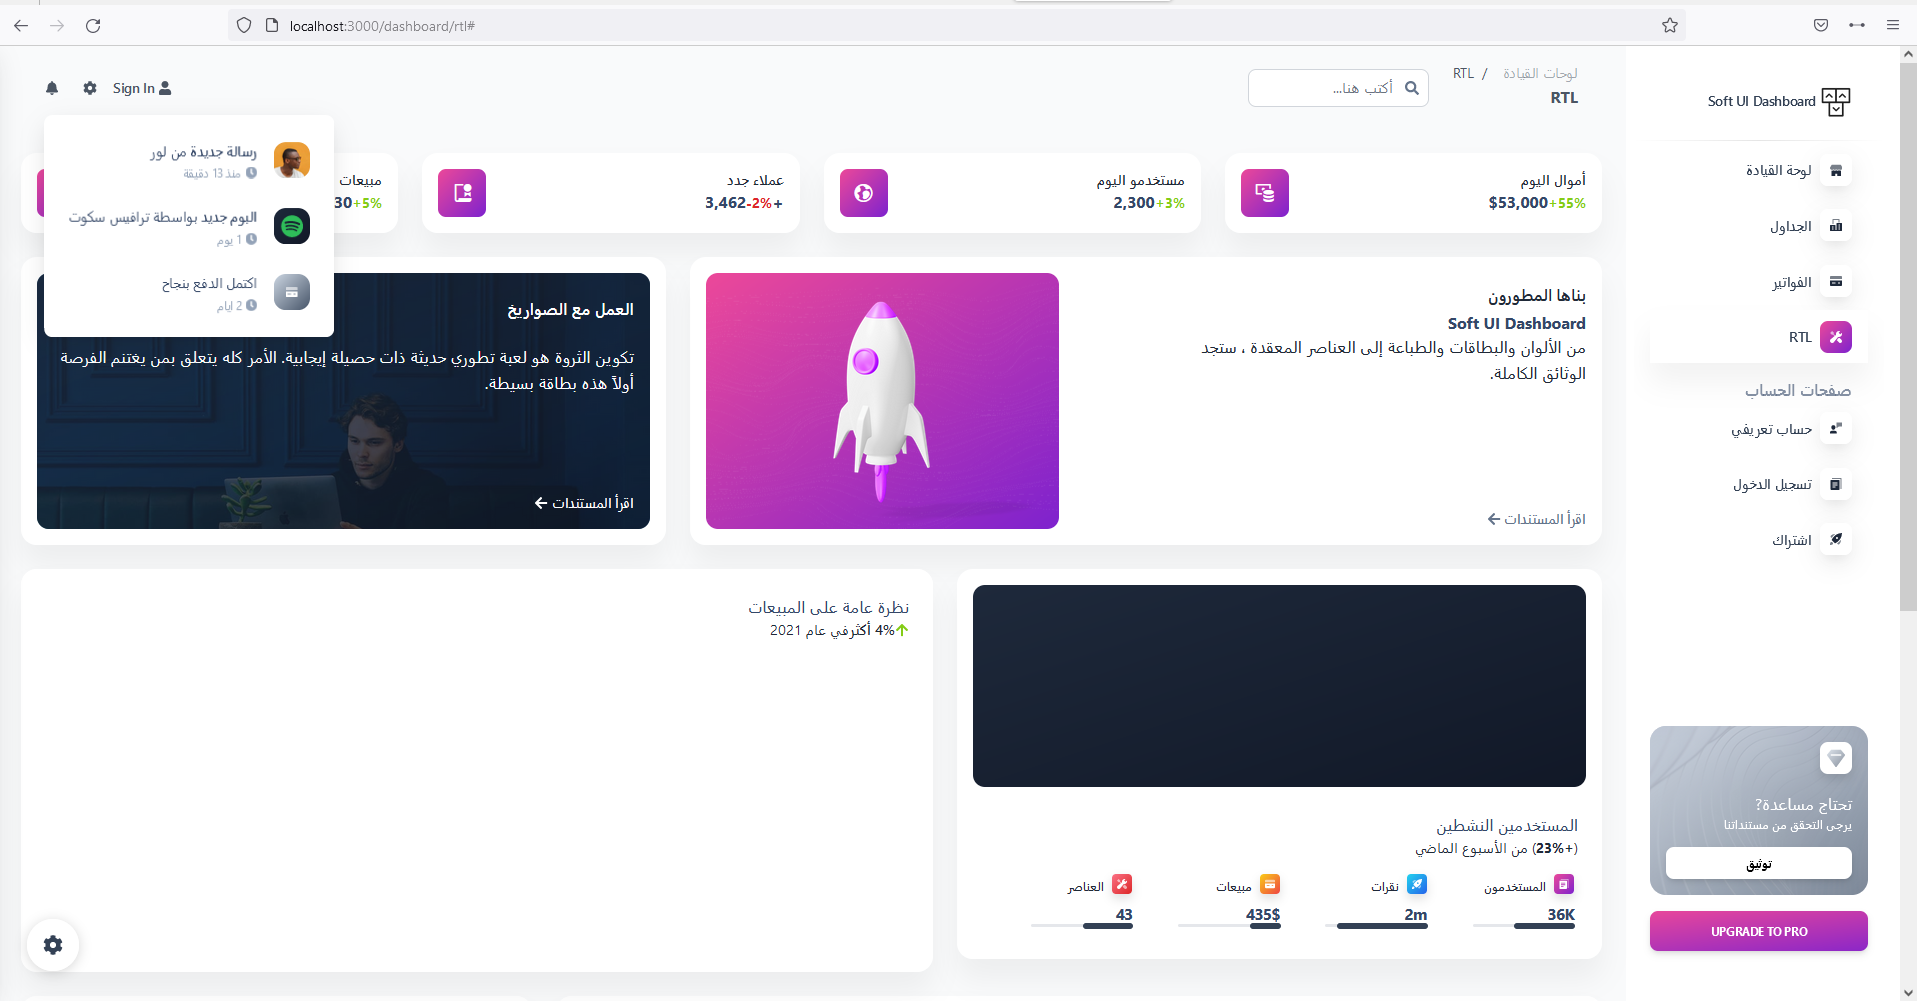
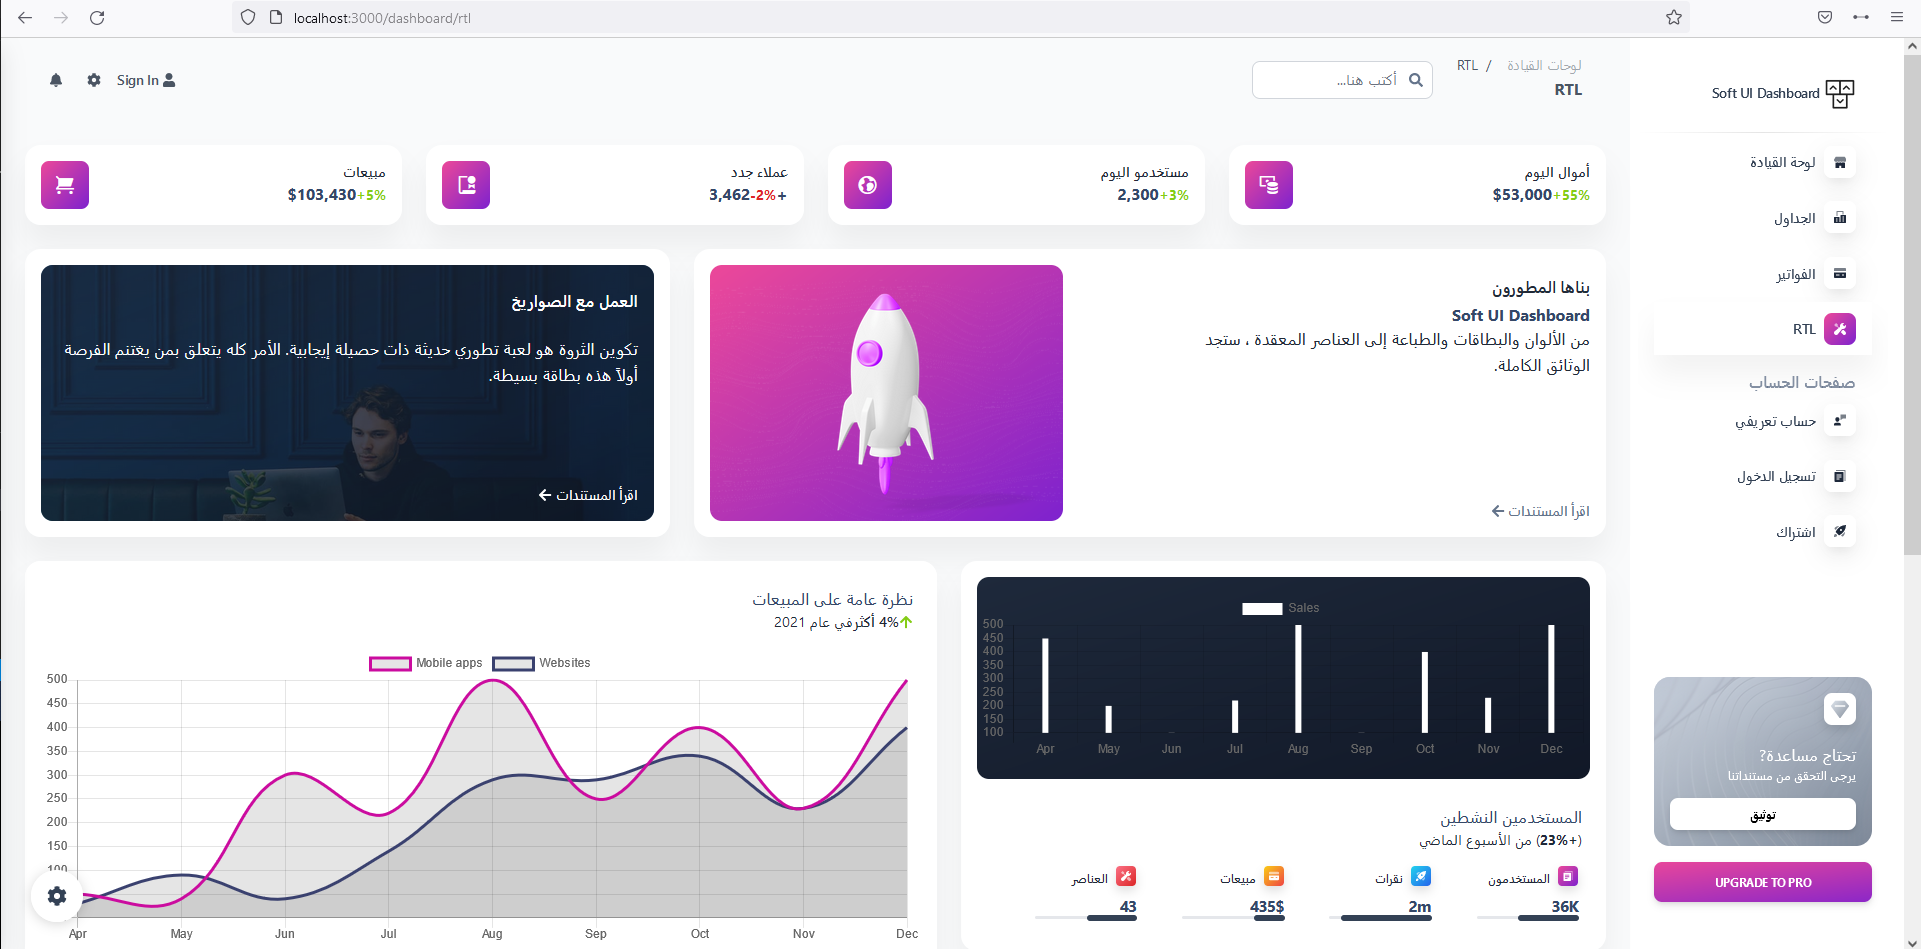
rtl chartjs

diff --git a/app/dashboard/rtl/page.js b/app/dashboard/rtl/page.js
@@ -1,4 +1,6 @@
 import { FaArrowLeft, FaArrowUp, FaCheck, FaEllipsisV } from "react-icons/fa";
+import Chart1 from "../../Components/chart1";
+import Chart2 from "../../Components/chart2";
 import Footer from "../footer";
 
 export default function rtl() {
@@ -162,7 +164,8 @@ export default function rtl() {
                             <div className="flex-auto p-4">
                                 <div className="py-4 pr-1 mb-4 bg-gradient-to-tl from-gray-900 to-slate-800 rounded-xl">
                                     <div>
-                                        <canvas id="chart-bars" height="170"></canvas>
+                                        {/* <canvas id="chart-bars" height="170"></canvas> */}
+                                        <Chart1 height={170}/>
                                     </div>
                                 </div>
                                 <h6 className="mt-6 mb-0 mr-2">المستخدمين النشطين</h6>
@@ -285,7 +288,8 @@ export default function rtl() {
                             </div>
                             <div className="flex-auto p-4">
                                 <div>
-                                    <canvas id="chart-line" height="300"></canvas>
+                                    {/* <canvas id="chart-line" height="300"></canvas> */}
+                                    <Chart2 height={300}/>
                                 </div>
                             </div>
                         </div>
